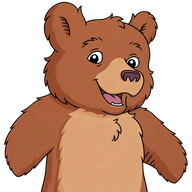
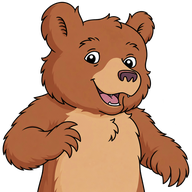
Usar exatamente o PNG anexado do Oli em alta qualidade em toda a aplicação

Changed region(s): [[0.0, 0.0, 1.0, 1.0]]

diff --git a/admin.html b/admin.html
@@ -8,8 +8,8 @@
   <meta name="mobile-web-app-capable" content="yes">
   <meta name="apple-mobile-web-app-capable" content="yes">
   <meta name="apple-mobile-web-app-title" content="Chá do Oli">
-  <link rel="manifest" href="./manifest.webmanifest?v=urso-hq-20261020">
-  <link rel="icon" type="image/png" sizes="48x48" href="./icons/oli-48.png?v=urso-hq-20261020">
+  <link rel="manifest" href="./manifest.webmanifest?v=urso-anexo-exato-20261020">
+  <link rel="icon" type="image/png" sizes="48x48" href="./icons/oli-48.png?v=urso-anexo-exato-20261020">
   <link rel="stylesheet" href="assets/admin.css?v=menu-mobile-20261020">
   <title>Ateliê do Oli · Administração</title>
 </head>
@@ -17,7 +17,7 @@
   <header class="admin-head">
     <div class="admin-head-inner">
       <a class="admin-brand" href="./" aria-label="Chá do Oli — abrir convite">
-        <span class="brand-icon"><img src="./icons/oli-48.png?v=urso-hq-20261020" width="38" height="38" alt=""></span>
+        <span class="brand-icon"><img src="./icons/oli-48.png?v=urso-anexo-exato-20261020" width="38" height="38" alt=""></span>
         <span class="brand-copy"><strong>Chá do Oli<span class="brand-heart"> ♡</span></strong><small>ESPAÇO DOS ORGANIZADORES</small></span>
       </a>
       <div class="header-actions">
@@ -186,7 +186,7 @@
             </div>
 <section class="pwa-tools" aria-label="Aplicativo no Android">
         <div class="pwa-tools-heading">
-          <img class="pwa-tools-icon" src="./icons/oli-48.png?v=urso-hq-20261020" alt="" width="45" height="45" loading="lazy">
+          <img class="pwa-tools-icon" src="./icons/oli-48.png?v=urso-anexo-exato-20261020" alt="" width="45" height="45" loading="lazy">
           <div><strong>Chá do Oli no seu celular</strong><p>Instale o painel como aplicativo e acompanhe novas contribuições.</p></div>
         </div>
         <div class="pwa-tools-actions">

diff --git a/index.html b/index.html
@@ -6,7 +6,7 @@
 <meta content="#f6efe1" name="theme-color"/>
 <meta content="Convite interativo do Chá do Oli — 14 de novembro, das 15h às 20h, com presentes e Pix." name="description"/>
 <title>Chá do Oli!</title>
-<link rel="icon" type="image/png" sizes="48x48" href="./icons/oli-48.png?v=urso-hq-20261020">
+<link rel="icon" type="image/png" sizes="48x48" href="./icons/oli-48.png?v=urso-anexo-exato-20261020">
 <link href="assets/styles.css?v=aviso-totalmente-centralizado-20261020" rel="stylesheet"/>
 </head>
 <body class="">
@@ -22,7 +22,7 @@
 <div aria-hidden="true" class="tiny-leaf"><span class="line"></span> ✦ <span class="line"></span></div>
 <h1 id="hero-title">O chá do Oli está chegando!</h1>
 <p class="cover-copy" id="hero-subtitle">Venha escrever esse capítulo com a gente.</p>
-<img alt="Ilustração de um ursinho marrom sorrindo" class="bear-art user-bear" id="hero-bear" src="./assets/urso-oli-home.png?v=urso-hq-20261020"/>
+<img alt="Ilustração de um ursinho marrom sorrindo" class="bear-art user-bear" id="hero-bear" src="./assets/urso-oli-home.png?v=urso-anexo-exato-20261020"/>
 </header>
 <section aria-labelledby="event-heading" class="section">
 <div class="chapter-line">Capítulo II</div>

diff --git a/sw.js b/sw.js
@@ -1,5 +1,5 @@
 /* Chá do Oli PWA — cache exclusivo de ícones públicos; sem credenciais, tokens ou dados pessoais. */
-const CACHE='oli-pwa-icons-v5-urso-hq-20261020';
+const CACHE='oli-pwa-icons-v6-anexo-exato-20261020';
 const ICONS=['./icons/oli-48.png','./icons/oli-192.png','./icons/oli-512.png','./icons/oli-maskable-512.png','./icons/oli-badge-96.png'];
 const URLS=ICONS.map(path=>new URL(path,self.registration.scope).href);
 self.addEventListener('install',event=>event.waitUntil(
